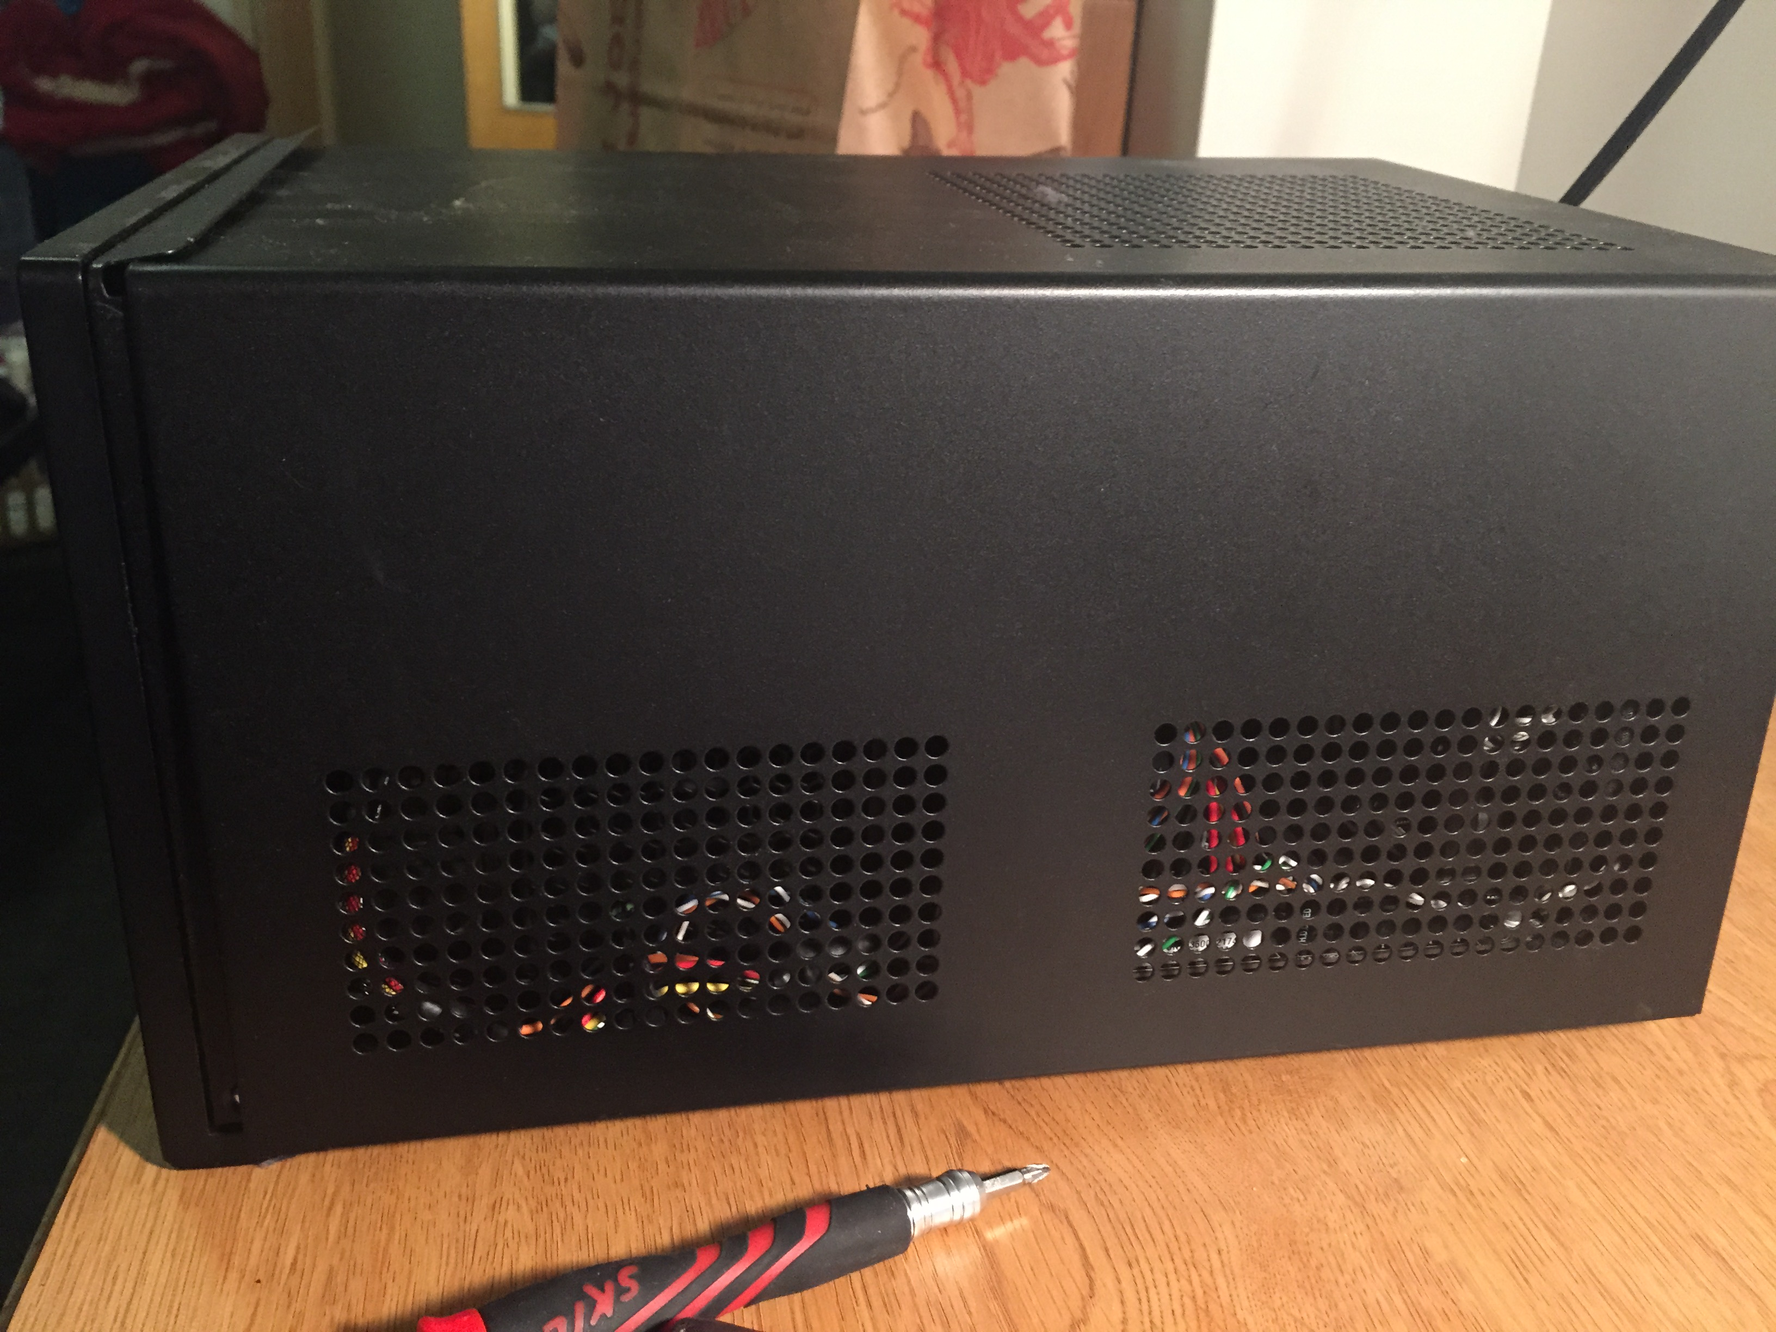
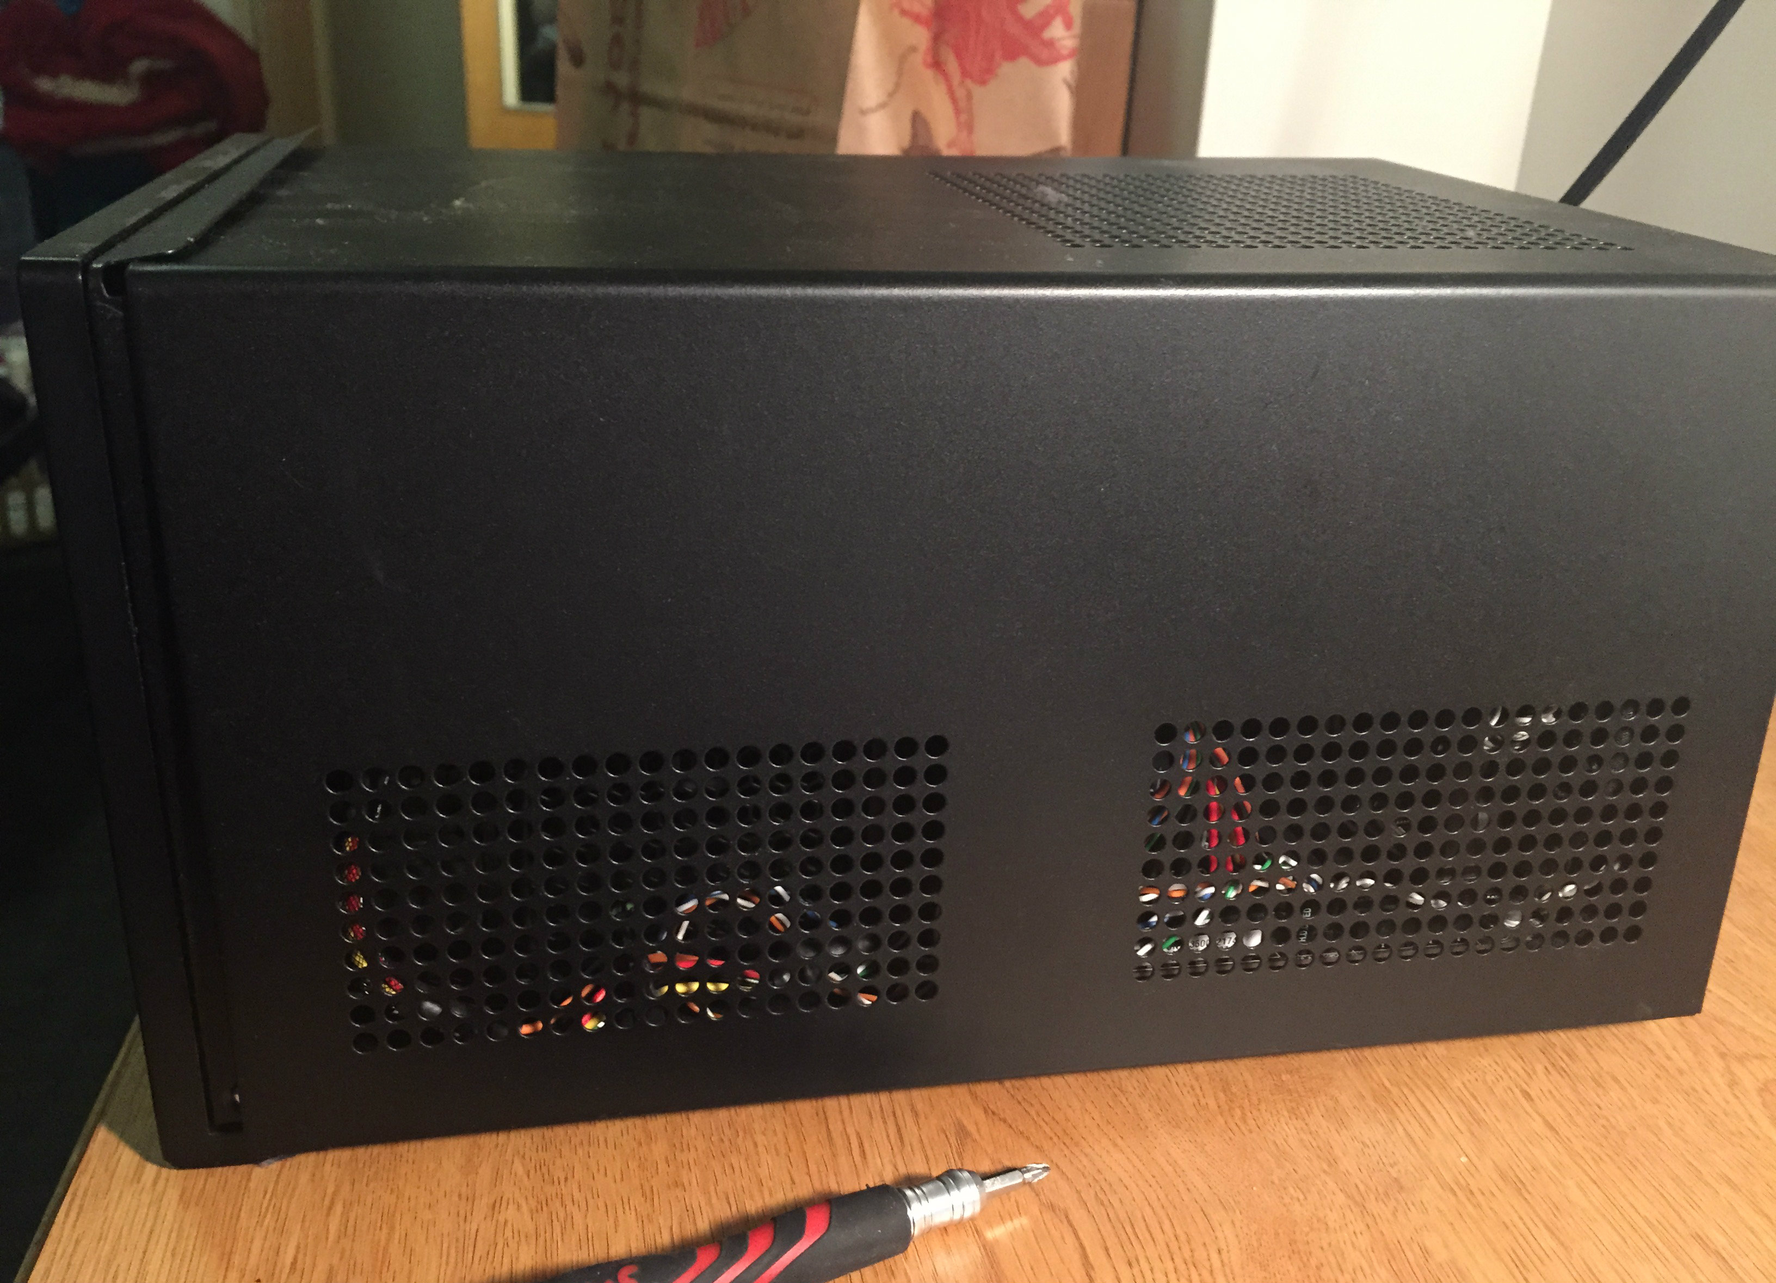
Finished Editing All Pics to Proper Aspect Ratio

diff --git a/My_Portfolio/index.html b/My_Portfolio/index.html
@@ -130,7 +130,7 @@
                                     <i class="fa fa-plus fa-3x"></i>
                                 </div>
                             </div>
-                            <img src="img/portfolio/Redemption.jpg" class="img-responsive" alt="">
+                            <img src="img/portfolio/Redemption2.jpg" class="img-responsive" alt="">
                         </a>
                         <div class="portfolio-caption">
                             <h4>The Redemption</h4>
@@ -172,7 +172,7 @@
                                     <i class="fa fa-plus fa-3x"></i>
                                 </div>
                             </div>
-                            <img src="img/portfolio/JohnBuild.jpg" class="img-responsive" alt="">
+                            <img src="img/portfolio/JohnBuild2.jpg" class="img-responsive" alt="">
                         </a>
                         <div class="portfolio-caption">
                             <h4>Red and Black</h4>
@@ -186,7 +186,7 @@
                                     <i class="fa fa-plus fa-3x"></i>
                                 </div>
                             </div>
-                            <img src="img/portfolio/360x260.jpg" class="img-responsive" alt="">
+                            <img src="img/portfolio/WillBuild2.jpg" class="img-responsive" alt="">
                         </a>
                         <div class="portfolio-caption">
                             <h4>Console Replacement</h4>
@@ -200,7 +200,7 @@
                                     <i class="fa fa-plus fa-3x"></i>
                                 </div>
                             </div>
-                            <img src="img/portfolio/360x260.jpg" class="img-responsive" alt="">
+                            <img src="img/portfolio/Gongxia3.jpg" class="img-responsive" alt="">
                         </a>
                         <div class="portfolio-caption">
                             <h4>Coding Monster</h4>
@@ -402,7 +402,7 @@
                     <div class="modal-head">
                         <h2>The Redemption</h2>
                         <p class="item-intro text-muted">Owner's PC</p>
-                        <img class="img-responsive img-centered" src="img/portfolio/Redemption.jpg" alt="">
+                        <img class="img-responsive img-centered" src="img/portfolio/Redemption2.jpg" alt="">
                     </div>
                     <p>
                     This past summer I completed my first build, it was a hodge podge of expensive parts given to me as gifts and some inexpensive parts that I purchased myself. After that it saw a number of minor upgrades leaving it in the following state:</p>
@@ -440,13 +440,13 @@
                                     <img src="img/portfolio/Redemption.jpg" alt="Main Image">
                                 </div>
                                 <div class="item">
-                                    <img src="img/portfolio/Redemption.jpg" alt="Main Image">
+                                    <img src="img/portfolio/Redemption3.jpg" alt="Main Image">
                                 </div>
                                 <div class="item">
-                                    <img src="img/portfolio/Redemption.jpg" alt="Main Image">
+                                    <img src="img/portfolio/Redemption4.jpg" alt="Main Image">
                                 </div>
                                 <div class="item">
-                                    <img src="img/portfolio/Redemption.jpg" alt="Main Image">
+                                    <img src="img/portfolio/Redemption2.jpg" alt="Main Image">
                                 </div>
                             </div>
                             <!-- Left and right controls -->
@@ -526,35 +526,31 @@
                             </table>
                         </div>
                         <br>
-                        <div id="myCarousel" class="carousel slide" data-ride="carousel">
+                        <div id="myCarousel2" class="carousel slide" data-ride="carousel">
                             <!-- Indicators -->
                             <ol class="carousel-indicators">
-                                <li data-target="#myCarousel" data-slide-to="0" class="active"></li>
-                                <li data-target="#myCarousel" data-slide-to="1"></li>
-                                <li data-target="#myCarousel" data-slide-to="2"></li>
-                                <li data-target="#myCarousel" data-slide-to="3"></li>
+                                <li data-target="#myCarousel2" data-slide-to="0" class="active"></li>
+                                <li data-target="#myCarousel2" data-slide-to="1"></li>
+                                <li data-target="#myCarousel2" data-slide-to="2"></li>
                             </ol>
                             <!-- Wrapper for slides -->
                             <div class="carousel-inner" role="listbox">
                                 <div class="item active">
-                                    <img src="img/portfolio/Redemption.jpg" alt="Main Image">
+                                    <img src="img/portfolio/DavidBuild2.jpg" alt="Main Image">
                                 </div>
                                 <div class="item">
-                                    <img src="img/portfolio/Redemption.jpg" alt="Main Image">
+                                    <img src="img/portfolio/DavidBuild.jpg" alt="Main Image">
                                 </div>
                                 <div class="item">
-                                    <img src="img/portfolio/Redemption.jpg" alt="Main Image">
-                                </div>
-                                <div class="item">
-                                    <img src="img/portfolio/Redemption.jpg" alt="Main Image">
+                                    <img src="img/portfolio/DavidBuild3.jpg" alt="Main Image">
                                 </div>
                             </div>
                             <!-- Left and right controls -->
-                            <a class="left carousel-control" href="#myCarousel" role="button" data-slide="prev">
+                            <a class="left carousel-control" href="#myCarousel2" role="button" data-slide="prev">
                                 <span class="glyphicon glyphicon-chevron-left" aria-hidden="true"></span>
                                 <span class="sr-only">Previous</span>
                             </a>
-                            <a class="right carousel-control" href="#myCarousel" role="button" data-slide="next">
+                            <a class="right carousel-control" href="#myCarousel2" role="button" data-slide="next">
                                 <span class="glyphicon glyphicon-chevron-right" aria-hidden="true"></span>
                                 <span class="sr-only">Next</span>
                             </a>
@@ -639,35 +635,35 @@
                         </table>
                     </div>
                     <br>
-                    <div id="myCarousel" class="carousel slide" data-ride="carousel">
+                    <div id="myCarousel3" class="carousel slide" data-ride="carousel">
                         <!-- Indicators -->
                         <ol class="carousel-indicators">
-                            <li data-target="#myCarousel" data-slide-to="0" class="active"></li>
-                            <li data-target="#myCarousel" data-slide-to="1"></li>
-                            <li data-target="#myCarousel" data-slide-to="2"></li>
-                            <li data-target="#myCarousel" data-slide-to="3"></li>
+                            <li data-target="#myCarousel3" data-slide-to="0" class="active"></li>
+                            <li data-target="#myCarousel3" data-slide-to="1"></li>
+                            <li data-target="#myCarousel3" data-slide-to="2"></li>
+                            <li data-target="#myCarousel3" data-slide-to="3"></li>
                         </ol>
                         <!-- Wrapper for slides -->
                         <div class="carousel-inner" role="listbox">
                             <div class="item active">
-                                <img src="img/portfolio/Redemption.jpg" alt="Main Image">
+                                <img src="img/portfolio/ParasBuild.jpg" alt="Main Image">
                             </div>
                             <div class="item">
-                                <img src="img/portfolio/Redemption.jpg" alt="Main Image">
+                                <img src="img/portfolio/ParasBuild2.jpg" alt="Main Image">
                             </div>
                             <div class="item">
-                                <img src="img/portfolio/Redemption.jpg" alt="Main Image">
+                                <img src="img/portfolio/ParasBuild3.jpg" alt="Main Image">
                             </div>
                             <div class="item">
-                                <img src="img/portfolio/Redemption.jpg" alt="Main Image">
+                                <img src="img/portfolio/ParasBuild4.jpg" alt="Main Image">
                             </div>
                         </div>
                         <!-- Left and right controls -->
-                        <a class="left carousel-control" href="#myCarousel" role="button" data-slide="prev">
+                        <a class="left carousel-control" href="#myCarousel3" role="button" data-slide="prev">
                             <span class="glyphicon glyphicon-chevron-left" aria-hidden="true"></span>
                             <span class="sr-only">Previous</span>
                         </a>
-                        <a class="right carousel-control" href="#myCarousel" role="button" data-slide="next">
+                        <a class="right carousel-control" href="#myCarousel3" role="button" data-slide="next">
                             <span class="glyphicon glyphicon-chevron-right" aria-hidden="true"></span>
                             <span class="sr-only">Next</span>
                         </a>
@@ -713,7 +709,7 @@
             <div class="modal-head">
             <h2>Black and Red</h2>
             <p class="item-intro text-muted">Big budget brings big power. </p>
-            <img class="img-responsive img-centered" src="img/portfolio/JohnBuild.jpg" alt="">
+            <img class="img-responsive img-centered" src="img/portfolio/JohnBuild2.jpg" alt="">
         </div>
             <p>This was our first project in SLI and our first build with the intent of color matching and beauty.</p>
             <div class="col-md-6">
@@ -736,35 +732,35 @@
                     </table>
                 </div>
                 <br>
-                <div id="myCarousel" class="carousel slide" data-ride="carousel">
+                <div id="myCarousel4" class="carousel slide" data-ride="carousel">
                     <!-- Indicators -->
                     <ol class="carousel-indicators">
-                        <li data-target="#myCarousel" data-slide-to="0" class="active"></li>
-                        <li data-target="#myCarousel" data-slide-to="1"></li>
-                        <li data-target="#myCarousel" data-slide-to="2"></li>
-                        <li data-target="#myCarousel" data-slide-to="3"></li>
+                        <li data-target="#myCarousel4" data-slide-to="0" class="active"></li>
+                        <li data-target="#myCarousel4" data-slide-to="1"></li>
+                        <li data-target="#myCarousel4" data-slide-to="2"></li>
+                        <li data-target="#myCarousel4" data-slide-to="3"></li>
                     </ol>
                     <!-- Wrapper for slides -->
                     <div class="carousel-inner" role="listbox">
                         <div class="item active">
-                            <img src="img/portfolio/Redemption.jpg" alt="Main Image">
+                            <img src="img/portfolio/JohnBuild.jpg" alt="Main Image">
                         </div>
                         <div class="item">
-                            <img src="img/portfolio/Redemption.jpg" alt="Main Image">
+                            <img src="img/portfolio/JohnBuild2.jpg" alt="Main Image">
                         </div>
                         <div class="item">
-                            <img src="img/portfolio/Redemption.jpg" alt="Main Image">
+                            <img src="img/portfolio/JohnBuild3.jpg" alt="Main Image">
                         </div>
                         <div class="item">
-                            <img src="img/portfolio/Redemption.jpg" alt="Main Image">
+                            <img src="img/portfolio/JohnBuild4.jpg" alt="Main Image">
                         </div>
                     </div>
                     <!-- Left and right controls -->
-                    <a class="left carousel-control" href="#myCarousel" role="button" data-slide="prev">
+                    <a class="left carousel-control" href="#myCarousel4" role="button" data-slide="prev">
                         <span class="glyphicon glyphicon-chevron-left" aria-hidden="true"></span>
                         <span class="sr-only">Previous</span>
                     </a>
-                    <a class="right carousel-control" href="#myCarousel" role="button" data-slide="next">
+                    <a class="right carousel-control" href="#myCarousel4" role="button" data-slide="next">
                         <span class="glyphicon glyphicon-chevron-right" aria-hidden="true"></span>
                         <span class="sr-only">Next</span>
                     </a>
@@ -815,7 +811,7 @@
         <div class="modal-head">
         <h2>Console Replacement</h2>
         <p class="item-intro text-muted">A small console like PC.</p>
-        <img class="img-responsive img-centered" src="img/portfolio/360x260.jpg" alt="">
+        <img class="img-responsive img-centered" src="img/portfolio/WillBuild2.jpg" alt="">
     </div>
         <p>We built this computer with the intent of it replacing console gaming for our client.</p>
         <div class="col-md-6">
@@ -838,35 +834,35 @@
                 </table>
             </div>
             <br>
-            <div id="myCarousel" class="carousel slide" data-ride="carousel">
+            <div id="myCarousel5" class="carousel slide" data-ride="carousel">
                 <!-- Indicators -->
                 <ol class="carousel-indicators">
-                    <li data-target="#myCarousel" data-slide-to="0" class="active"></li>
-                    <li data-target="#myCarousel" data-slide-to="1"></li>
-                    <li data-target="#myCarousel" data-slide-to="2"></li>
-                    <li data-target="#myCarousel" data-slide-to="3"></li>
+                    <li data-target="#myCarousel5" data-slide-to="0" class="active"></li>
+                    <li data-target="#myCarousel5" data-slide-to="1"></li>
+                    <li data-target="#myCarousel5" data-slide-to="2"></li>
+                    <li data-target="#myCarousel5" data-slide-to="3"></li>
                 </ol>
                 <!-- Wrapper for slides -->
                 <div class="carousel-inner" role="listbox">
                     <div class="item active">
-                        <img src="img/portfolio/Redemption.jpg" alt="Main Image">
+                        <img src="img/portfolio/WillBuild2.jpg" alt="Main Image">
                     </div>
                     <div class="item">
-                        <img src="img/portfolio/Redemption.jpg" alt="Main Image">
+                        <img src="img/portfolio/WillBuild1.jpg" alt="Main Image">
                     </div>
                     <div class="item">
-                        <img src="img/portfolio/Redemption.jpg" alt="Main Image">
+                        <img src="img/portfolio/WillBuild3.jpg" alt="Main Image">
                     </div>
                     <div class="item">
-                        <img src="img/portfolio/Redemption.jpg" alt="Main Image">
+                        <img src="img/portfolio/WillBuild4.jpg" alt="Main Image">
                     </div>
                 </div>
                 <!-- Left and right controls -->
-                <a class="left carousel-control" href="#myCarousel" role="button" data-slide="prev">
+                <a class="left carousel-control" href="#myCarousel5" role="button" data-slide="prev">
                     <span class="glyphicon glyphicon-chevron-left" aria-hidden="true"></span>
                     <span class="sr-only">Previous</span>
                 </a>
-                <a class="right carousel-control" href="#myCarousel" role="button" data-slide="next">
+                <a class="right carousel-control" href="#myCarousel5" role="button" data-slide="next">
                     <span class="glyphicon glyphicon-chevron-right" aria-hidden="true"></span>
                     <span class="sr-only">Next</span>
                 </a>
@@ -915,7 +911,7 @@
     <div class="modal-head">
     <h2>Coding Monster</h2>
     <p class="item-intro text-muted">Lorem ipsum dolor sit amet consectetur.</p>
-    <img class="img-responsive img-centered" src="img/portfolio/360x260.jpg" alt="">
+    <img class="img-responsive img-centered" src="img/portfolio/Gongxia3.jpg" alt="">
 </div>
     <p>Project Description</p>
     <div class="col-md-6">
@@ -938,35 +934,31 @@
             </table>
         </div>
         <br>
-        <div id="myCarousel" class="carousel slide" data-ride="carousel">
+        <div id="myCarousel6" class="carousel slide" data-ride="carousel">
             <!-- Indicators -->
             <ol class="carousel-indicators">
-                <li data-target="#myCarousel" data-slide-to="0" class="active"></li>
-                <li data-target="#myCarousel" data-slide-to="1"></li>
-                <li data-target="#myCarousel" data-slide-to="2"></li>
-                <li data-target="#myCarousel" data-slide-to="3"></li>
+                <li data-target="#myCarousel6" data-slide-to="0" class="active"></li>
+                <li data-target="#myCarousel6" data-slide-to="1"></li>
+                <li data-target="#myCarousel6" data-slide-to="2"></li>
             </ol>
             <!-- Wrapper for slides -->
             <div class="carousel-inner" role="listbox">
                 <div class="item active">
-                    <img src="img/portfolio/Redemption.jpg" alt="Main Image">
+                    <img src="img/portfolio/Gongxia1.jpg" alt="Main Image">
                 </div>
                 <div class="item">
-                    <img src="img/portfolio/Redemption.jpg" alt="Main Image">
+                    <img src="img/portfolio/Gongxia2.jpg" alt="Main Image">
                 </div>
                 <div class="item">
-                    <img src="img/portfolio/Redemption.jpg" alt="Main Image">
-                </div>
-                <div class="item">
-                    <img src="img/portfolio/Redemption.jpg" alt="Main Image">
+                    <img src="img/portfolio/Gongxia3.jpg" alt="Main Image">
                 </div>
             </div>
             <!-- Left and right controls -->
-            <a class="left carousel-control" href="#myCarousel" role="button" data-slide="prev">
+            <a class="left carousel-control" href="#myCarousel6" role="button" data-slide="prev">
                 <span class="glyphicon glyphicon-chevron-left" aria-hidden="true"></span>
                 <span class="sr-only">Previous</span>
             </a>
-            <a class="right carousel-control" href="#myCarousel" role="button" data-slide="next">
+            <a class="right carousel-control" href="#myCarousel6" role="button" data-slide="next">
                 <span class="glyphicon glyphicon-chevron-right" aria-hidden="true"></span>
                 <span class="sr-only">Next</span>
             </a>
